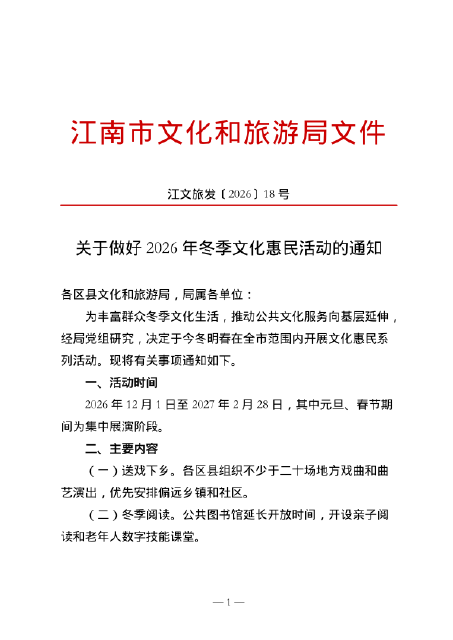
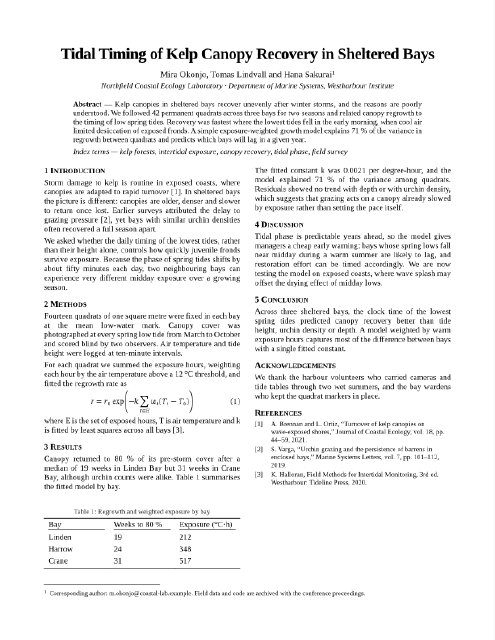
README: an English sample in Made with Doc
made-3 is the two-column kelp research paper instead of the Chinese
government notice. cargo xtask assets passes.

Task: English-only README pictures. Cases: none (README and pictures only).

Changed region(s): [[0.0927, 0.0625, 0.9272, 0.9375]]

diff --git a/README.md b/README.md
@@ -65,7 +65,7 @@ the kit's check what still needs fixing.
 <tr>
 <td width="25%"><a href="https://github.com/KitionAI/kition-showcase/tree/main/doc/charity-impact-report"><img src="assets/readme/made-1.png" alt="A one-page charity impact report with a drop cap, three headline figures and a doughnut chart." /></a></td>
 <td width="25%"><a href="https://github.com/KitionAI/kition-showcase/tree/main/doc/project-proposal"><img src="assets/readme/made-2.png" alt="The full-page green cover of a community solar garden project proposal." /></a></td>
-<td width="25%"><a href="https://github.com/KitionAI/kition-showcase/tree/main/doc/gov-notice-red-header"><img src="assets/readme/made-3.png" alt="A Chinese official notice with a red masthead, a red rule, a document number and numbered headings." /></a></td>
+<td width="25%"><a href="https://github.com/KitionAI/kition-showcase/tree/main/doc/kelp-research-paper"><img src="assets/readme/made-3.png" alt="A two-column research paper on kelp canopy recovery with a full-width abstract, a numbered equation and a results table." /></a></td>
 <td width="25%"><a href="https://github.com/KitionAI/kition-showcase/tree/main/doc/recipe-card"><img src="assets/readme/made-4.png" alt="A recipe card on a tinted page, with ingredients in a narrow column and numbered method steps beside them." /></a></td>
 </tr>
 </table>

diff --git a/docs/attribution.md b/docs/attribution.md
@@ -63,5 +63,5 @@ Generated-in-code art is original and has no file to list: the sample documents 
 | `assets/readme/columns.png` | The Kition authors | Screenshot of Kition Doc's editor on the showcase sample magazine-feature, taken by `web/scripts/readme-shots.mjs` | Apache-2.0 | README picture |
 | `assets/readme/made-1.png` | The Kition authors | Rendered by Kition Doc from the showcase sample charity-impact-report (its `thumb.png`) | Apache-2.0 | README picture |
 | `assets/readme/made-2.png` | The Kition authors | Rendered by Kition Doc from the showcase sample project-proposal (its `thumb.png`) | Apache-2.0 | README picture |
-| `assets/readme/made-3.png` | The Kition authors | Rendered by Kition Doc from the showcase sample gov-notice-red-header (its `thumb.png`) | Apache-2.0 | README picture |
+| `assets/readme/made-3.png` | The Kition authors | Rendered by Kition Doc from the showcase sample kelp-research-paper (its `thumb.png`) | Apache-2.0 | README picture |
 | `assets/readme/made-4.png` | The Kition authors | Rendered by Kition Doc from the showcase sample recipe-card (its `thumb.png`) | Apache-2.0 | README picture |
